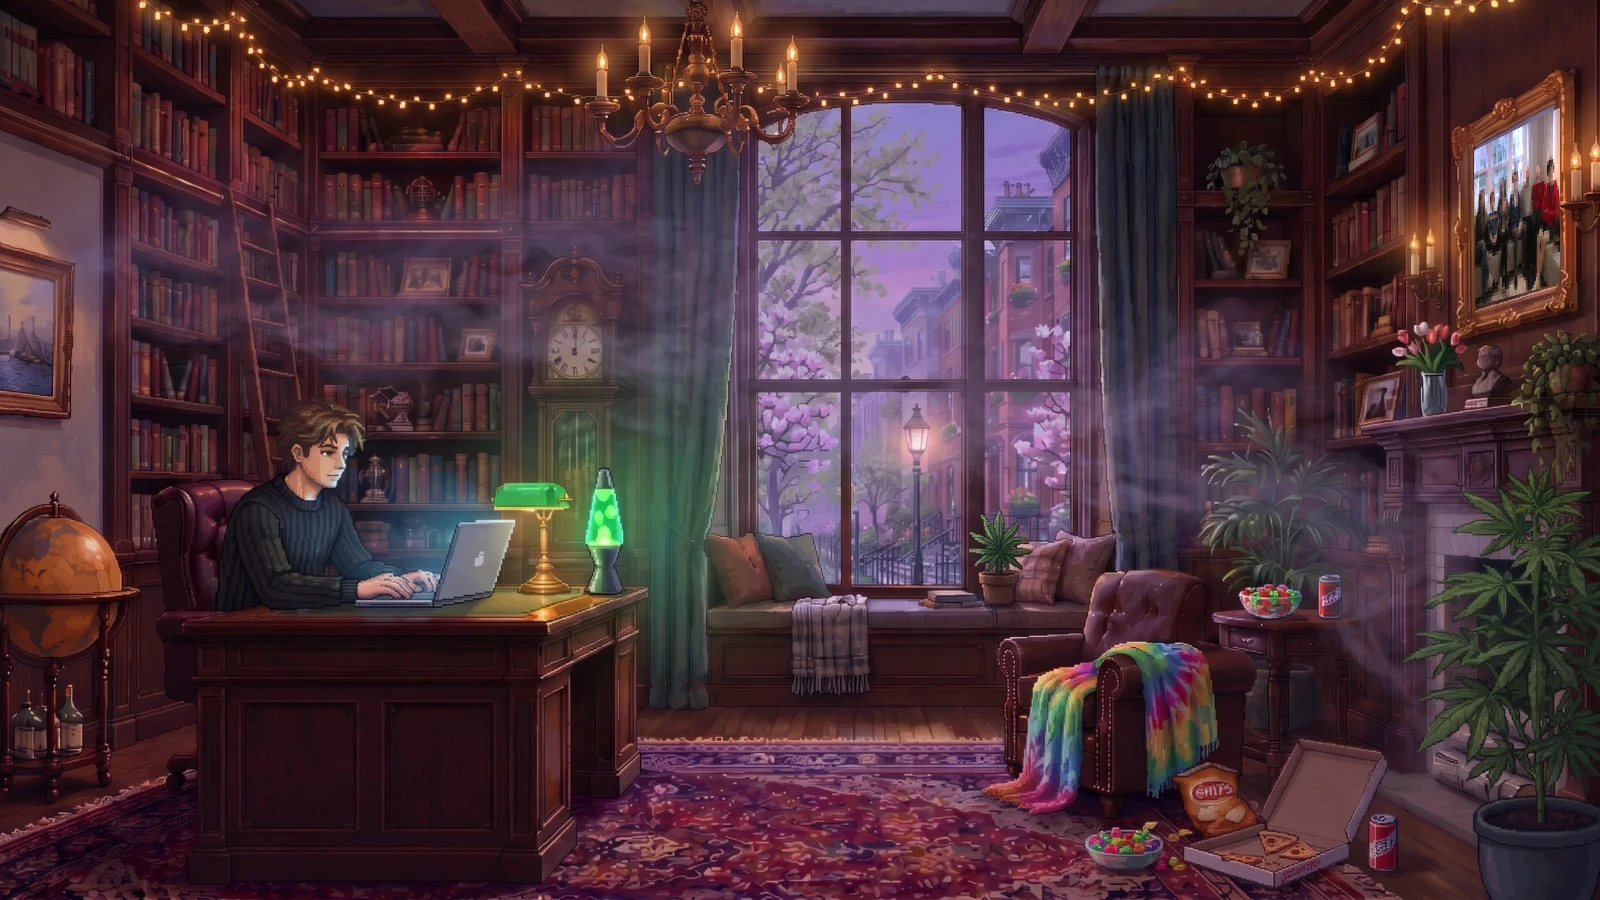
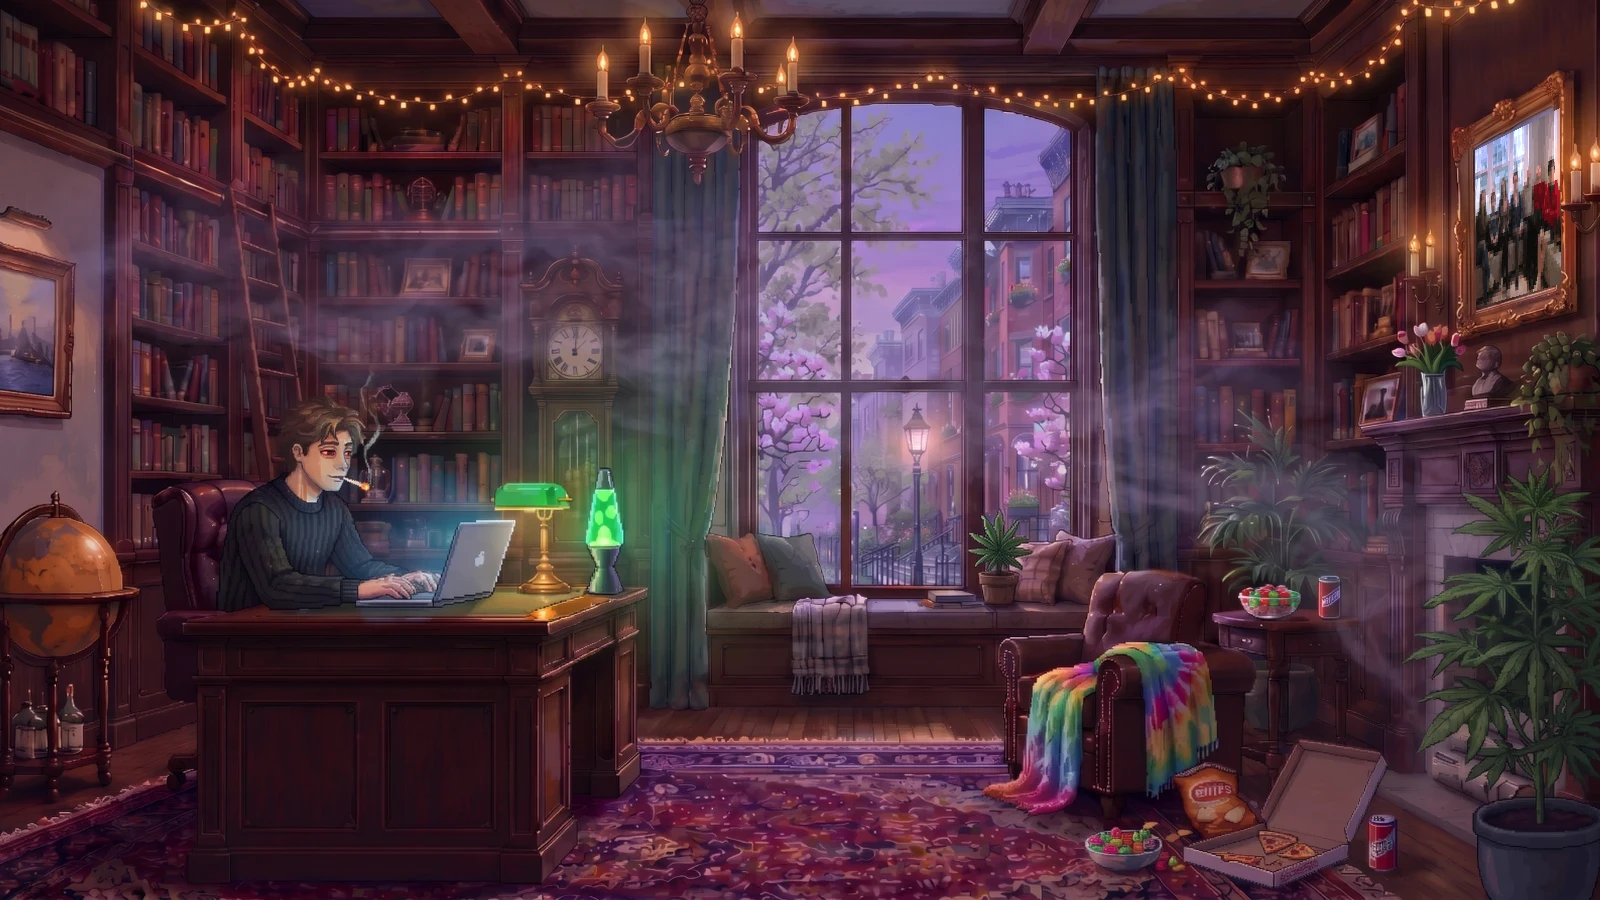
4/20: joint and red eyes, with a glowing ember

diff --git a/src/scene.js b/src/scene.js
@@ -39,7 +39,7 @@ export const PROFILES = {
   stpatricks: { lights: ['lamp'], weather: 'petals', gold: true, tint: 'spring', leprechaun: true, books: true },
   thanksgiving: { lights: [...EVENING, 'fire'], weather: 'leaves', embers: true, turkey: true, pilgrim: true },
   easter: { lights: ['lamp'], weather: 'petals', tint: 'spring' },
-  fourtwenty: { lights: EVENING, weather: 'petals' },
+  fourtwenty: { lights: [...EVENING, 'ember'], weather: 'petals' },
 };
 
 // Glass panes of the big window (mullions excluded), used to clip weather particles.
@@ -85,6 +85,8 @@ export const LIGHTS = [
   { x: 1442, y: 398, r: 24, kind: 'lantern', group: 'lantern' },
   { x: 1505, y: 393, r: 24, kind: 'lantern', group: 'lantern' },
   { x: 1045, y: 615, r: 80, kind: 'screen', group: 'screen' },
+  // 4/20: the ember on the tip of David's joint
+  { x: 364, y: 486, r: 9, kind: 'lantern', group: 'ember' },
 ];
 
 // Hands that type: each rect is nudged down a pixel or two on a keystroke.
